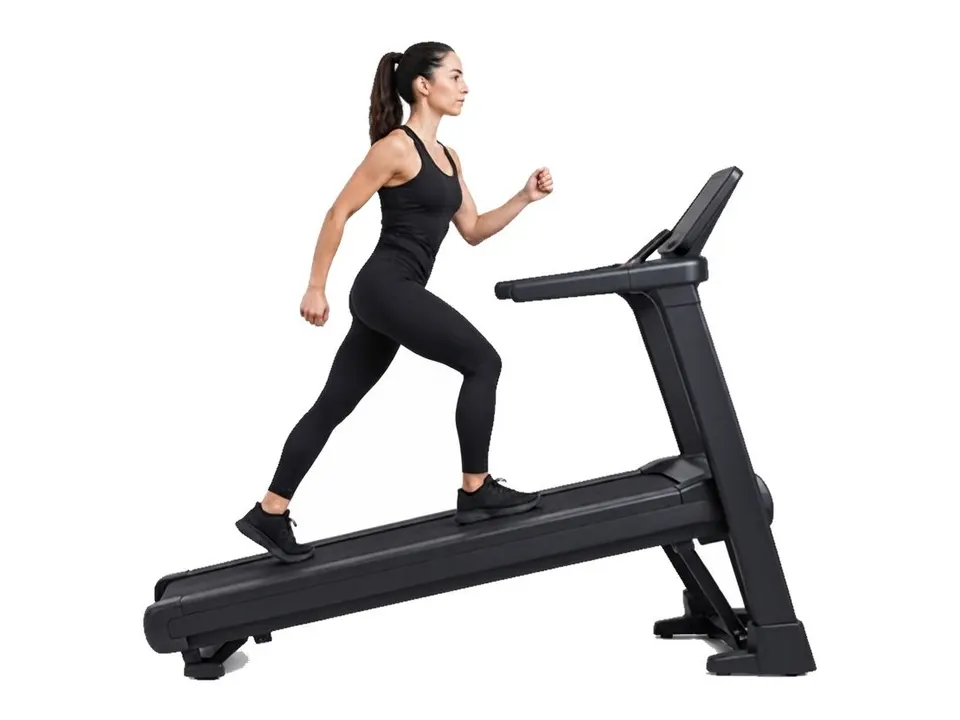
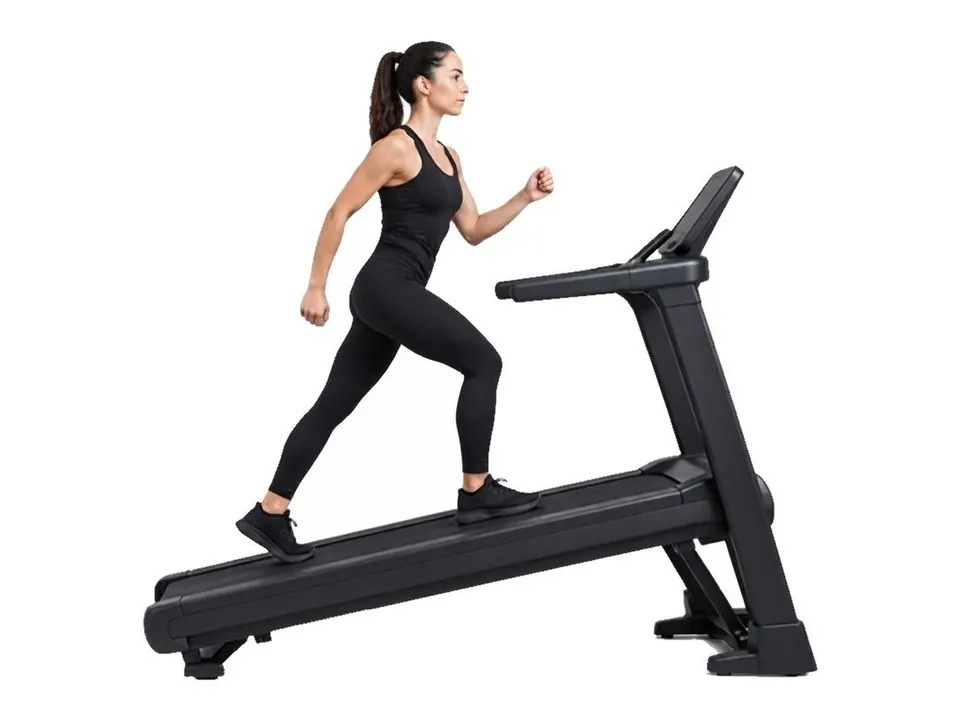
Incline walk and leg swings animate again: grey patches painted out
The grey patches that kept both moves still are gone from the source frames: the shadow under the incline-walk
treadmill's front foot (in both frames, a different size in each) and the pale grey patch between the leg-swing pole
and her torso (frame 1 only). Each was flood-filled to white from a seed inside a small box. The |A-B|x4 difference
of the built pair now lights up only the moving arms and legs. 45 moves loop.

diff --git a/src/data/exerciseMedia.ts b/src/data/exerciseMedia.ts
@@ -220,17 +220,17 @@ export const EXERCISE_PHOTOS: string[] = [
 export const EXERCISE_PHOTO_LOOPS: string[] = [
   'arabesque', 'arnold_press', 'ball_back_extension', 'ball_slam', 'band_monster_walk', 'bb_back_squat', 'bb_bench_press',
   'bb_hang_pull', 'bb_row', 'bb_sumo_deadlift', 'bike_climb', 'cat_cow', 'db_overhead_triceps', 'db_pullover_bridge',
-  'double_under', 'glute_bridge', 'hip_thrust', 'jump_rope', 'kb_bottoms_up_press', 'kb_halo', 'kb_rdl', 'kb_suitcase_squat',
-  'kb_swing', 'kneeling_hip_thrust', 'landmine_lunge_press', 'lateral_lunge', 'leg_press', 'march_in_place',
-  'mountain_climber', 'one_arm_db_row', 'pallof_press_overhead', 'plank_shoulder_tap', 'rowing_machine', 'scapular_roll',
-  'shadow_boxing', 'ski_erg', 'sl_bridge_bench', 'sled_push', 'step_jack', 'straight_arm_pulldown', 'thread_the_needle',
-  'track_run', 'treadmill_push',
+  'double_under', 'glute_bridge', 'hip_thrust', 'incline_walk', 'jump_rope', 'kb_bottoms_up_press', 'kb_halo', 'kb_rdl',
+  'kb_suitcase_squat', 'kb_swing', 'kneeling_hip_thrust', 'landmine_lunge_press', 'lateral_lunge', 'leg_press', 'leg_swings',
+  'march_in_place', 'mountain_climber', 'one_arm_db_row', 'pallof_press_overhead', 'plank_shoulder_tap', 'rowing_machine',
+  'scapular_roll', 'shadow_boxing', 'ski_erg', 'sl_bridge_bench', 'sled_push', 'step_jack', 'straight_arm_pulldown',
+  'thread_the_needle', 'track_run', 'treadmill_push',
 ]
 
 /** Quick, repeating loops (steps, strides, rope turns, punches) swap faster than a lift's steady rep. */
 export const EXERCISE_PHOTO_FAST: string[] = [
-  'bike_climb', 'double_under', 'jump_rope', 'march_in_place', 'mountain_climber', 'shadow_boxing', 'sled_push',
-  'step_jack', 'track_run', 'treadmill_push',
+  'bike_climb', 'double_under', 'incline_walk', 'jump_rope', 'march_in_place', 'mountain_climber', 'shadow_boxing',
+  'sled_push', 'step_jack', 'track_run', 'treadmill_push',
 ]
 
 /** How long each photo of a loop shows, in ms. */
